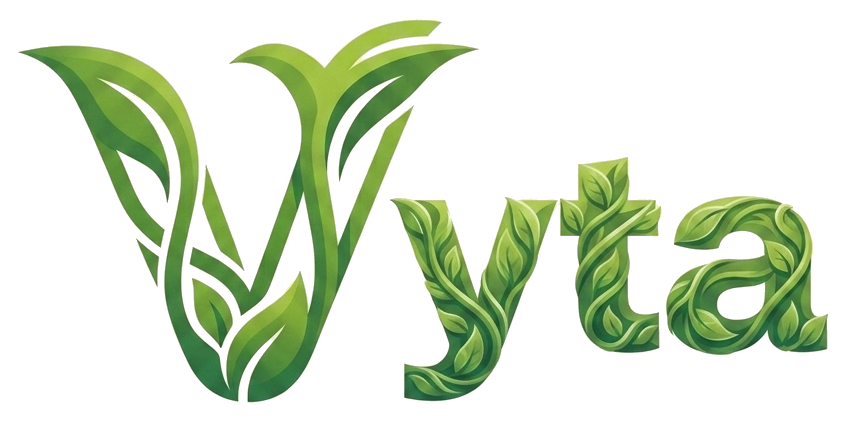
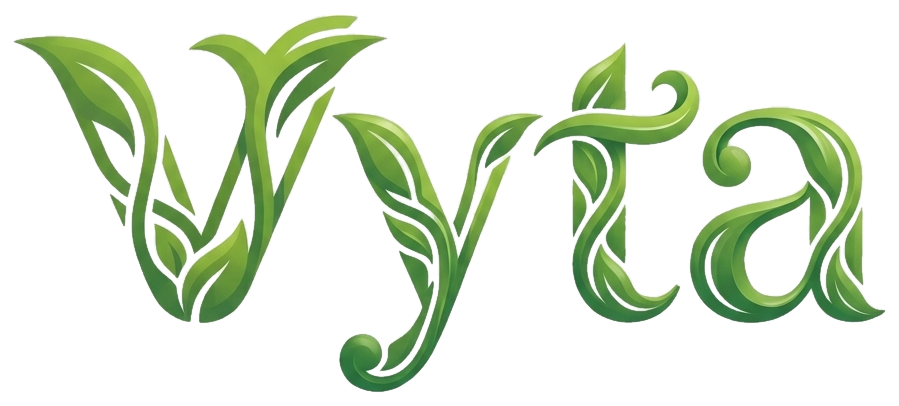
Splash: use the new cohesive botanical 'Vyta' wordmark (yta matched to the V)
Chroma-keyed the painted checkerboard out of the Gemini render and swapped it in
as public/vyta-wordmark.png; updated BrandSplash aspect ratio and V-center offset
to match the new artwork so the V→wordmark transition stays aligned.

diff --git a/src/app/BrandSplash.tsx b/src/app/BrandSplash.tsx
@@ -6,9 +6,9 @@ import wordmarkUrl from '/vyta-wordmark.png';
 // still plays the V alone first: it pops in centered, slides left to where the
 // wordmark's own V sits, then crossfades into the complete wordmark.
 const WM_H = 104; // wordmark display height (px)
-const WM_W = Math.round(WM_H * 1.93); // wordmark aspect ≈ 430×223
+const WM_W = Math.round(WM_H * 2.21); // wordmark aspect ≈ 899×406 (botanical "Vyta")
 const V_H = 102; // standalone V display height (matches the wordmark's V)
-const V_LEFT = Math.round(WM_W * 0.21); // the wordmark V's center, from its left
+const V_LEFT = Math.round(WM_W * 0.192); // the wordmark V's center, from its left
 const START_SHIFT = Math.round(WM_W / 2 - V_LEFT); // start = viewport center
 
 export function BrandSplash() {
